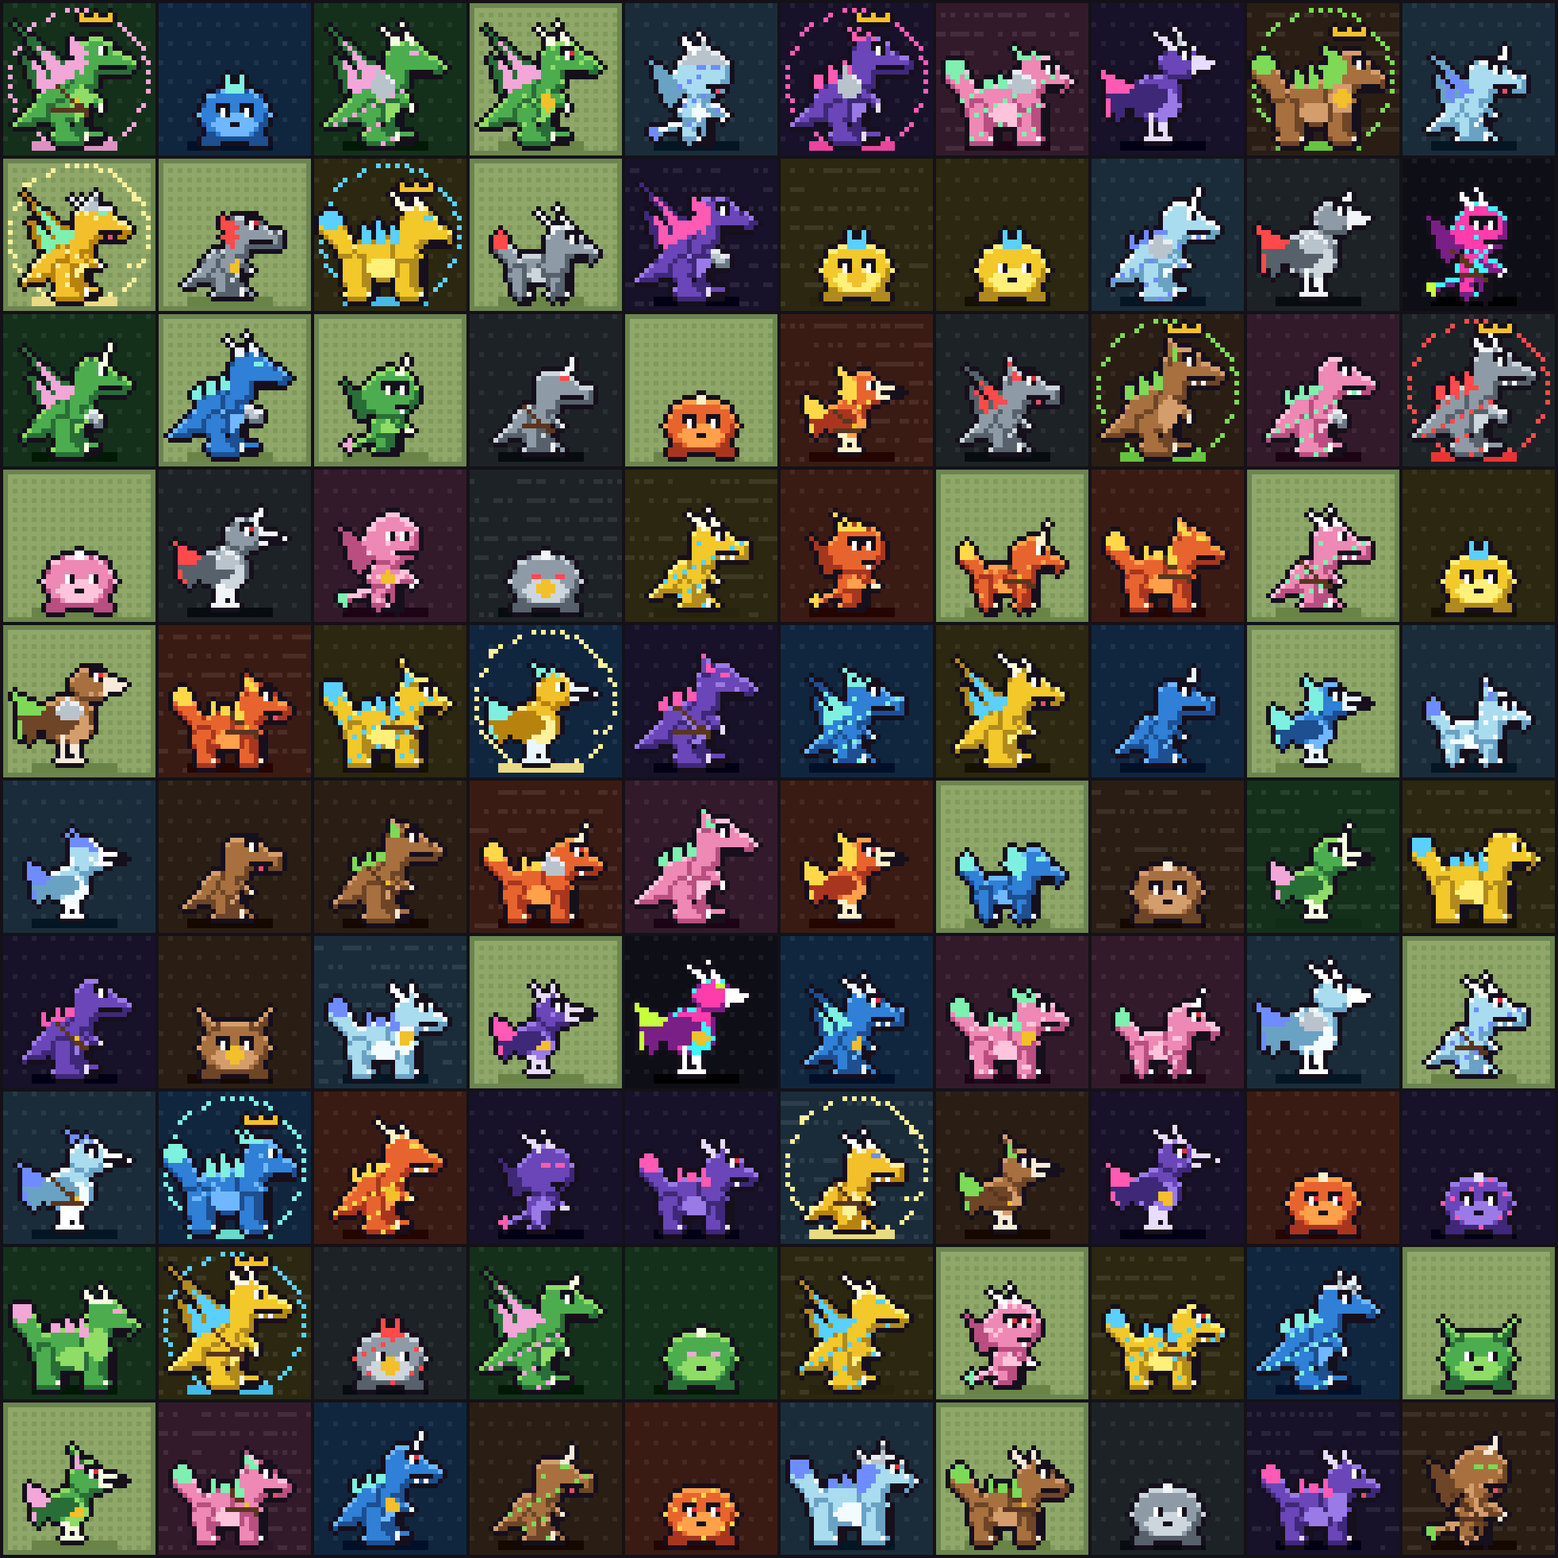
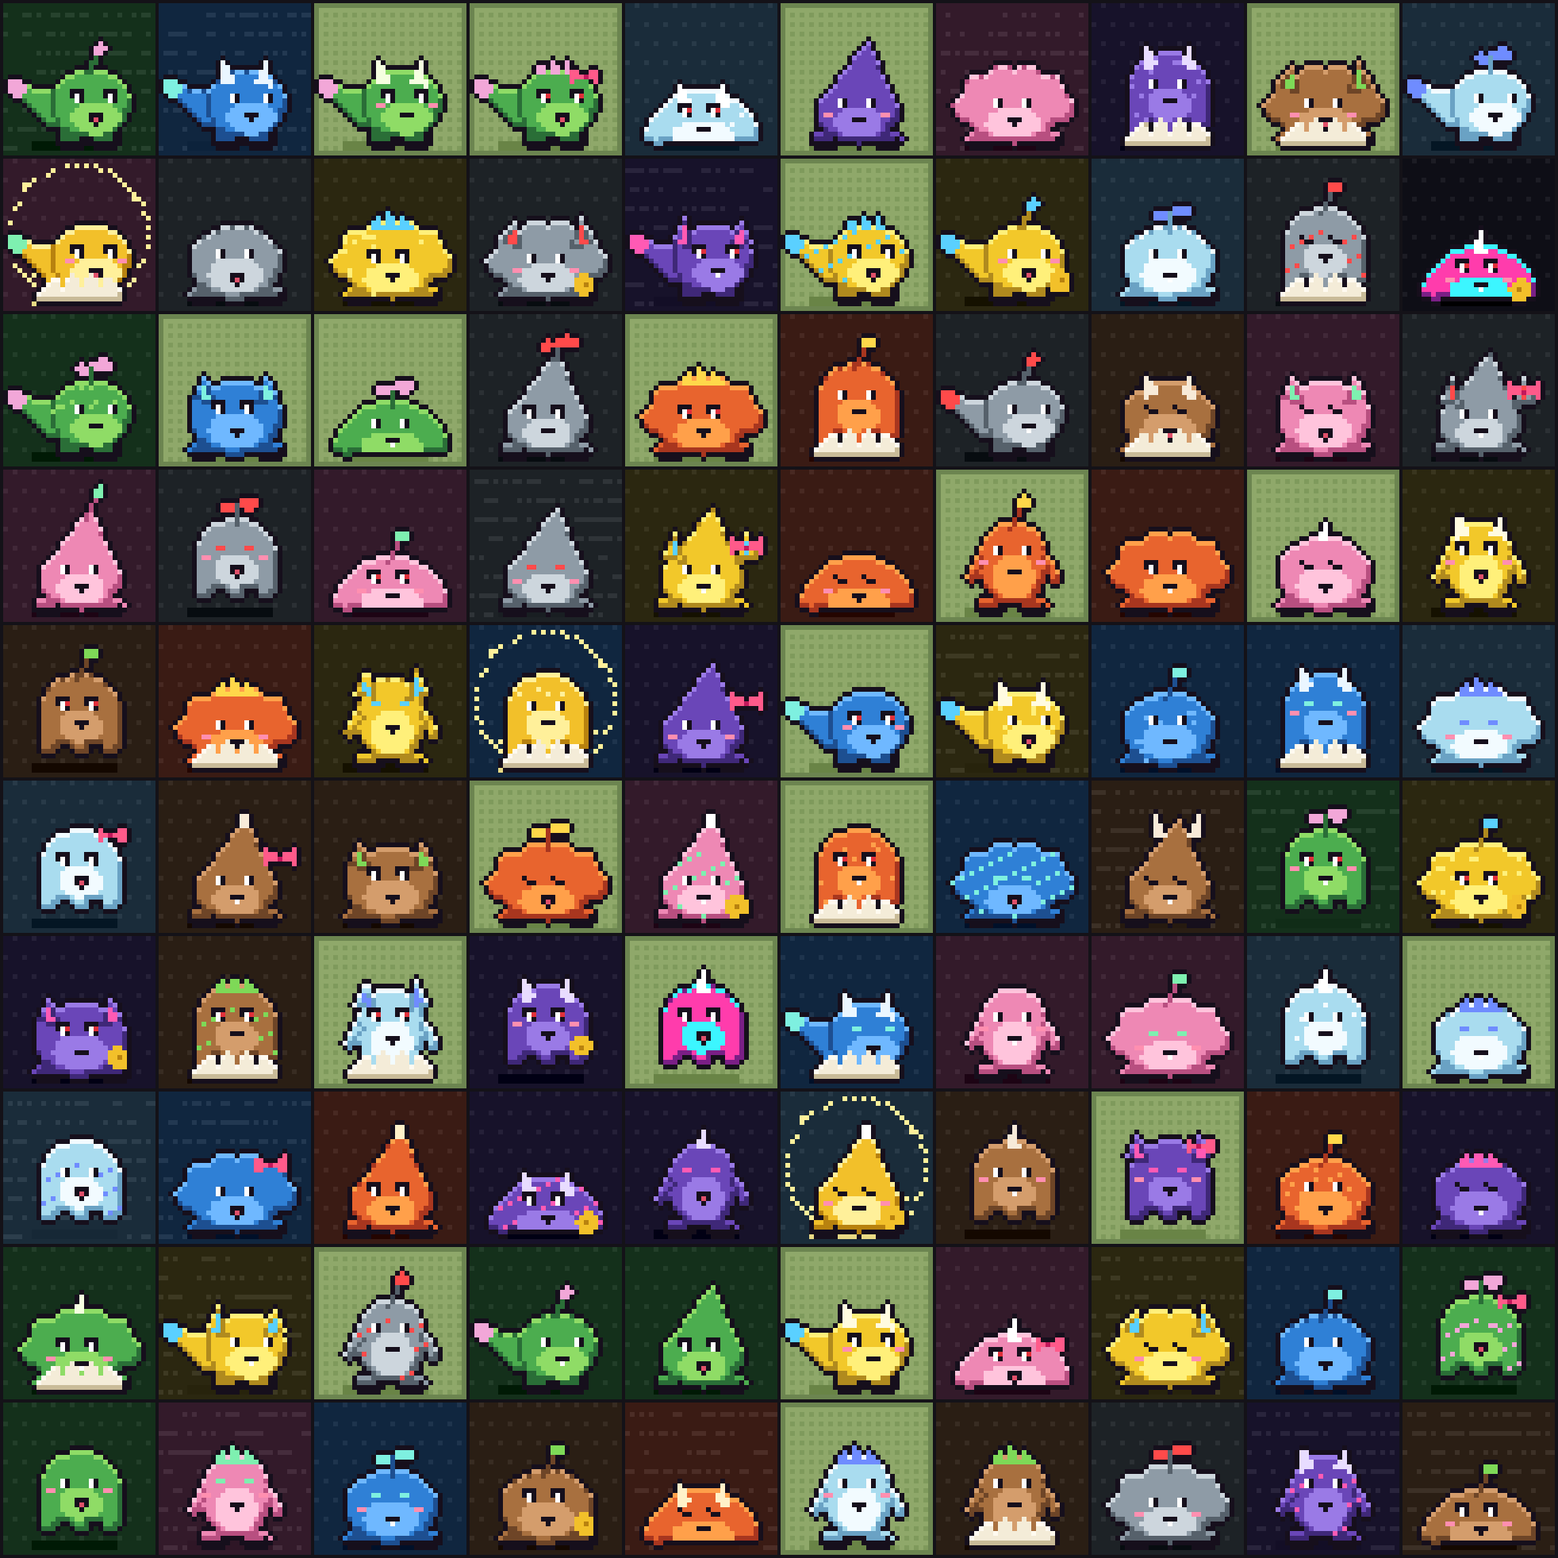
Bytelings: the first hundred are babies (Blob, Drop, Puff, Bean, Tadpole, Wisp, Mound)
The grown bodies stay, for the later stages (--stage). Every 30 days after
the pad opens, the next stage can be reached by evolving, which is to come.

(cherry picked from commit c3fea8a796bb61e6b136ac6d87f3f3d0b5d4ed1c)

diff --git a/examples/bytelings/generate.py b/examples/bytelings/generate.py
@@ -1,5 +1,5 @@
 #!/usr/bin/env python3
-"""Bytelings: 100 pixel monsters, the arcade's own DigiByte ordinals collection.
+"""Bytelings: pixel monsters, the arcade's own DigiByte ordinals collection.
 
     python3 examples/bytelings/generate.py            # writes examples/bytelings/build/
     python3 examples/bytelings/generate.py --sheet preview.png --scale 6
@@ -9,13 +9,18 @@ from a seed, never by hand, so anyone can run this and get the same 100 pictures
 chain. They are digital monsters in the virtual-pet tradition: a baby blob, then a rookie, up to armoured giants, seen
 side on with claws, tails, spikes, straps and armour. Our own monsters: no other franchise's names, characters or looks.
 
+The first hundred are all babies, the Bit stage (2026-11-07, SadFrog: "100 babys that can eventually become bigger"):
+blobs, drops, puffs, beans, tadpoles, wisps and mounds. Every 30 days after the pad opens, the next stage can be
+reached by evolving, which is to come: a Bytelings site on the arcade's backbone where an owner signs to burn their
+babies for a grown one. The grown bodies below are drawn already, for those later hundreds (`--stage`).
+
 What comes out is a HashLips build (`build/images/<n>.png`, `build/json/<n>.json` and `build/json/_metadata.json`),
 the layout the Creator tab already inscribes a whole collection from (arcade/collections.py). A picture is 32 by 32
 pixels in an indexed palette, a few hundred bytes, so the fee to inscribe it stays small; pages show it scaled up with
 `image-rendering: pixelated`.
 
 Every Byteling has a stage (how far it has grown: Bit, Byte, Kilo, Mega, Giga), an element (its colours), a body
-(Dino, Beast, Dragon, Avian, Imp; every Bit is a Baby), its head, eyes, mouth, marking, gear and background. No two
+(a Bit's is one of the baby forms; a grown one is a Dino, Beast, Dragon, Avian or Imp), its head, eyes, mouth, marking, gear and background. No two
 have the same traits. Pillow is the only thing it needs.
 """
 
@@ -33,15 +38,16 @@ NAME = "Bytelings"
 COUNT = 100
 SIZE = 32
 SEED = "bytelings/2026-11-07"
-DESCRIPTION = ("A Byteling: one of 100 pixel monsters, the Arcade's own collection on DigiByte, minted with "
-               "DigiDollar test to thank the people who tried it.")
+DESCRIPTION = ("A Byteling: a baby pixel monster, one of the first 100, the Arcade's own collection on DigiByte, "
+               "minted with DigiDollar test to thank the people who tried it. Every 30 days it can grow a stage.")
 HERE = Path(__file__).resolve().parent
 GROUND = 29
 
-#: How many of each stage there are: most are young.
-STAGES = [("Bit", 16), ("Byte", 30), ("Kilo", 28), ("Mega", 18), ("Giga", 8)]
+#: The stages, youngest first. The first hundred are all Bits (`--stage` draws a hundred of another, for later).
+STAGE_NAMES = ("Bit", "Byte", "Kilo", "Mega", "Giga")
+STAGES = [("Bit", 100)]
 #: How big each stage is drawn, and how much bigger its head is than a grown one's (the young are all head).
-SCALE = {"Byte": (.74, 1.25), "Kilo": (.86, 1.1), "Mega": (.95, 1.0), "Giga": (1.0, 1.0)}
+SCALE = {"Bit": (1.3, 1.0), "Byte": (.74, 1.25), "Kilo": (.86, 1.1), "Mega": (.95, 1.0), "Giga": (1.0, 1.0)}
 
 #: Each element's colours: background, body, body light, body dark, accent, horn and claw.
 ELEMENTS = {
@@ -74,6 +80,13 @@ MOUTHS = ["Fangs", "Fangs", "Grin", "Closed"]
 MARKINGS = ["None", "Stripes", "Stripes", "Tribal", "Belly", "Spots"]
 GEAR = ["None", "None", "Belts", "Belts", "Gauntlet", "Helmet", "Armor", "DigiDollar coin"]
 BACKGROUNDS = ["Element", "Element", "Element", "LCD", "Data"]
+#: What a baby (a Bit) can be instead.
+BABY_FORMS = ["Blob", "Drop", "Puff", "Bean", "Tadpole", "Wisp", "Mound"]
+BABY_HEADS = ["Horns", "Unihorn", "Ears", "Crest", "Sprout", "Antenna", "Plain", "Plain"]
+BABY_EYES = ["Round", "Round", "Round", "Sharp", "Glow", "Fierce", "Sleepy"]
+BABY_MOUTHS = ["Fangs", "Grin", "Grin", "Closed", "Open"]
+BABY_MARKINGS = ["None", "None", "Spots", "Stripes", "Tribal", "Blush", "Blush"]
+BABY_GEAR = ["None", "None", "None", "None", "Eggshell", "Bow", "DigiDollar coin"]
 
 
 def hexrgb(h: str) -> tuple[int, int, int]:
@@ -228,15 +241,81 @@ def imp(c: Canvas, t: dict) -> dict:
             "arm": (17.5, 19.5, 21, 22.5), "ear": (12.5, 8.5), "two_eyes": True}
 
 
-def baby(c: Canvas, t: dict) -> dict:
-    c.new(True); c.ellipse(16, 23.5, 7.5, 6, "body")
+# The babies, a Bit's forms: small, round and mostly face, looking at you. Each says where its eyes (the middle of
+# the pair), mouth and top are, its `ear` (the left one; the right is its mirror about the top) and `side`, where it
+# holds a coin.
+
+def _feet(c: Canvas, y: float = 28.6, x0: float = 10.5, x1: float = 21.5):
+    c.capsule(x0 - 1, y, 1.2, x0 + 1, y, 1.2, "far"); c.capsule(x1 - 1, y, 1.2, x1 + 1, y, 1.2, "far")
+
+
+def _baby(eye, mouth, top, ear, side, **more) -> dict:
+    return {"eye": eye, "mouth": mouth, "top": top, "back": [], "chest": None, "arm": None, "ear": ear,
+            "side": side, "two_eyes": True, "baby": True, **more}
+
+
+def blob(c: Canvas, t: dict) -> dict:
+    c.new(); _feet(c)
+    c.new(); c.ellipse(16, 23.5, 7.5, 6, "body")
     c.ellipse(16, 25.5, 4.5, 3, "belly", only=("body",))
-    c.capsule(10, 28.6, 1.2, 12, 28.6, 1.2, "dark"); c.capsule(20, 28.6, 1.2, 22, 28.6, 1.2, "dark")
-    return {"eye": (16, 22), "mouth": (15, 25.3, 17.5), "top": (16, 17.6), "back": [], "chest": None, "arm": None,
-            "ear": (11.5, 19), "two_eyes": True, "baby": True}
+    return _baby((16, 22), (15, 25.3, 17.5), (16, 17.6), (11.5, 19), (22, 25.5))
 
 
-BODY_DRAW = {"Dino": dino, "Beast": beast, "Dragon": dragon, "Avian": avian, "Imp": imp, "Baby": baby}
+def drop(c: Canvas, t: dict) -> dict:
+    c.new(); _feet(c, x0=11, x1=21)
+    c.new(); c.ellipse(16, 24.2, 6.6, 5.2, "body"); c.tri([(9.6, 23.2), (17.5, 12.5), (22.4, 23.2)], "body")
+    c.ellipse(16, 26, 4, 2.6, "belly", only=("body",))
+    return _baby((16, 22.5), (15, 25.6, 17.5), (17.3, 13.6), (12, 19.5), (21.5, 26))
+
+
+def puff(c: Canvas, t: dict) -> dict:
+    c.new(); _feet(c)
+    c.new(); c.ellipse(16, 24, 7.6, 5.4, "body")
+    for x, y in ((10.5, 20.5), (14, 19), (18, 19), (21.5, 20.5), (8.7, 23.5), (23.3, 23.5)):
+        c.ellipse(x, y, 2.6, 2.4, "body")
+    c.ellipse(16, 26, 4.5, 2.6, "belly", only=("body",))
+    return _baby((16, 22.6), (15, 25.6, 17.5), (16, 16.8), (11, 19), (22, 26))
+
+
+def bean(c: Canvas, t: dict) -> dict:
+    c.new(); _feet(c, x0=12.5, x1=19.5)
+    c.new(); c.ellipse(16, 21.8, 5.6, 6.8, "body")
+    c.ellipse(16, 24, 3.4, 3.6, "belly", only=("body",))
+    c.new(); c.capsule(10.6, 21.5, 1, 9.3, 24, .9, "body"); c.capsule(21.4, 21.5, 1, 22.7, 24, .9, "body")
+    return _baby((16, 19.5), (15, 23, 17.5), (16, 15.2), (12.4, 16.5), (22.5, 25))
+
+
+def tadpole(c: Canvas, t: dict) -> dict:
+    c.new(); c.capsule(12, 24, 3, 5.5, 20.5, .9, "body"); c.ellipse(5.6, 20.4, 1.5, 1.5, "accent")
+    c.new(); c.capsule(13.5, 28.4, 1.2, 15.5, 28.4, 1.2, "far"); c.capsule(19, 28.4, 1.2, 21, 28.4, 1.2, "far")
+    c.new(); c.ellipse(17.5, 23, 6.6, 5.6, "body")
+    c.ellipse(18.5, 25.3, 4, 2.6, "belly", only=("body",))
+    return _baby((18.5, 21.6), (17.5, 24.8, 20), (17.5, 17.4), (13.5, 19), (23.5, 25.5))
+
+
+def wisp(c: Canvas, t: dict) -> dict:
+    c.new(); c.ellipse(16, 20.5, 6.6, 6, "body")
+    lo, hi = c.at(9.4, 20.5), c.at(22.6, 26)
+    c.shape(lambda x, y: lo[0] <= x <= hi[0] and lo[1] <= y <= hi[1], "body")
+    for x in (11, 16, 21):
+        c.ellipse(x, 26, 1.7, 1.5, "body")
+    c.ellipse(16, 23, 3.6, 2.6, "belly", only=("body",))
+    return _baby((16, 19), (15, 22.6, 17.5), (16, 14.6), (11.5, 16), (21.5, 23.5))
+
+
+def mound(c: Canvas, t: dict) -> dict:
+    c.new()
+    cx, cy = c.at(16, 29.2)
+    rx, ry = c.r(9.4), c.r(8.6)
+    c.shape(lambda x, y: ((x - cx) / rx) ** 2 + ((y - cy) / ry) ** 2 <= 1 and y < cy, "body")
+    for x, y in ((9, 26.5), (23.5, 25.5)):
+        c.capsule(x, y, .8, x, y + 2.2, .9, "body")
+    c.ellipse(16, 28, 5, 2.4, "belly", only=("body",))
+    return _baby((16, 24), (15, 26.8, 17.5), (16, 20.8), (10.8, 23), (22.5, 27))
+
+
+BABIES = {"Blob": blob, "Drop": drop, "Puff": puff, "Bean": bean, "Tadpole": tadpole, "Wisp": wisp, "Mound": mound}
+BODY_DRAW = {"Dino": dino, "Beast": beast, "Dragon": dragon, "Avian": avian, "Imp": imp, **BABIES}
 
 
 def draw(t: dict) -> Image.Image:
@@ -254,10 +333,10 @@ def compose(t: dict, k: float, hk: float) -> Canvas:
     stage = t["Stage"]
     c = Canvas(k, hk)
     # the head is scaled about its own middle, which each body says through its first draw
-    c.head = {"Dino": (20, 11), "Dragon": (20, 11), "Beast": (22, 14), "Avian": (18.5, 11.5), "Imp": (16.5, 12.5),
-              "Baby": (16, 23)}[t["Body"]]
+    c.head = {"Dino": (20, 11), "Dragon": (20, 11), "Beast": (22, 14), "Avian": (18.5, 11.5),
+              "Imp": (16.5, 12.5)}.get(t["Body"], (16, 23))
     f = BODY_DRAW[t["Body"]](c, t)
-    big = {"Bit": 0, "Byte": 1, "Kilo": 2, "Mega": 3, "Giga": 4}[stage]
+    big = STAGE_NAMES.index(stage)
 
     # back spikes along the spine, on the grown
     if f["back"] and (big >= 2 or t["Head"] == "Crest"):
@@ -270,13 +349,28 @@ def compose(t: dict, k: float, hk: float) -> Canvas:
     tx, ty = f["top"]
     h = t["Head"]
     if f.get("baby"):
-        if h in ("Horns", "Unihorn"):
-            c.tri([(15, ty + 1), (16, ty - 3), (17, ty + 1)], "horn")
+        ex, ey = f["ear"]
+        if h == "Horns":
+            for s in (-1, 1):
+                c.tri([(tx + s * 1.5, ty + 2.2), (tx + s * 3.6, ty - 1.8), (tx + s * 4.2, ty + 2.8)], "horn")
+        elif h == "Unihorn":
+            c.tri([(tx - 1.1, ty + 1), (tx, ty - 3.2), (tx + 1.1, ty + 1)], "horn")
         elif h == "Ears":
-            c.tri([(10, 21), (8.5, 15.5), (13.5, 19)], "body"); c.tri([(22, 21), (23.5, 15.5), (18.5, 19)], "body")
-        elif h in ("Crest", "Frill"):
-            c.tri([(13.5, ty + 1), (14.5, ty - 2.5), (16, ty + 1)], "accent")
-            c.tri([(16, ty + 1), (17.5, ty - 2.5), (18.5, ty + 1)], "accent")
+            for x0 in (ex, 2 * tx - ex):
+                s = 1 if x0 > tx else -1
+                c.tri([(x0 - s * 1.5, ey + 2.5), (x0 + s * .5, ey - 3), (x0 + s * 2.5, ey + 1.5)], "body")
+                c.tri([(x0 - s * .3, ey + 1.5), (x0 + s * .5, ey - 1.6), (x0 + s * 1.4, ey + 1.2)], "accent",
+                      only=("body",))
+        elif h == "Crest":
+            for d in (-2.2, 0, 2.2):
+                c.tri([(tx + d - 1.2, ty + 1.2), (tx + d - .4, ty - 2.2 + abs(d) * .4), (tx + d + 1.2, ty + 1.2)],
+                      "accent")
+        elif h == "Sprout":
+            c.capsule(tx, ty + .8, .45, tx + .4, ty - 2, .45, "dark")
+            c.ellipse(tx + 2, ty - 2.4, 1.9, 1.1, "accent"); c.ellipse(tx - 1.3, ty - 1.8, 1.3, .9, "accent")
+        elif h == "Antenna":
+            c.capsule(tx - .4, ty + .8, .4, tx + 1.6, ty - 3, .4, "dark")
+            c.ellipse(tx + 1.7, ty - 3.3, 1, 1, "glow")
     elif h == "Horns":
         c.tri([(tx - 2.5, ty + 1.5), (tx - 6, ty - 3.5), (tx - .5, ty + .5)], "horn")
         c.tri([(tx + .5, ty + 1), (tx - 1.5, ty - 4.5), (tx + 2.2, ty + .8)], "horn")
@@ -319,6 +413,9 @@ def compose(t: dict, k: float, hk: float) -> Canvas:
         if e == "Glow":
             c.put(x, y, "glow"); c.put(x + 1, y, "glow")
             continue
+        if e == "Sleepy":
+            c.put(x, y + 1, "ink"); c.put(x + 1, y + 1, "ink"); c.put(x - 1, y, "ink")
+            continue
         c.put(x, y, "eye"); c.put(x + 1, y, "eye"); c.put(x, y + 1, "eye"); c.put(x + 1, y + 1, "pupil")
         c.put(x + 1, y, "iris" if e == "Fierce" else "pupil")
         if e in ("Sharp", "Fierce"):
@@ -342,6 +439,12 @@ def compose(t: dict, k: float, hk: float) -> Canvas:
             for x in range(ax + 1, bx - 1):
                 c.put(x, ay + 1, "ink", only=("body", "belly"))
             c.put(ax + 2, ay + 1, "tongue", only=("ink",))
+        elif m == "Open":
+            mid = (ax + bx) // 2
+            for x in range(ax, bx):
+                c.put(x, ay, "body" if abs(x - mid) > 1 else "ink", only=("ink",))
+            c.put(mid - 1, ay + 1, "ink", only=("body", "belly")); c.put(mid, ay + 1, "tongue", only=("body", "belly"))
+            c.put(mid + 1, ay + 1, "ink", only=("body", "belly")); c.put(mid, ay + 2, "ink", only=("body", "belly"))
 
     # markings, on the body colour only
     mk = t["Marking"]
@@ -360,6 +463,11 @@ def compose(t: dict, k: float, hk: float) -> Canvas:
     if mk == "Belly" and f["chest"]:
         cx, cy = f["chest"]
         c.ellipse(cx, cy + 1, 2.6, 3.4, "light", only=("body", "belly"))
+    if mk == "Blush":
+        ex, ey = f["eye"]
+        for x in (ex - 5, ex + 4):
+            x, y = c.at(x, ey + 2)
+            c.put(int(x), int(y), "blush", only=("body", "belly")); c.put(int(x) + 1, int(y), "blush", only=("body", "belly"))
 
     # gear on the body
     c.new()
@@ -377,8 +485,23 @@ def compose(t: dict, k: float, hk: float) -> Canvas:
         c.ellipse(cx - 2, cy - 2.5, 3, 2.4, "metal")
         c.tri([(cx - 4, cy - 3.5), (cx - 3, cy - 7), (cx - 1.5, cy - 4)], "metal")
     elif g == "DigiDollar coin":
-        cx, cy = f["chest"] or (16, 24)
+        cx, cy = f["chest"] or f["side"]
         c.ellipse(cx, cy + 1, 1.8, 1.8, "coin")
+        x, y = c.at(cx, cy + 1)
+        c.put(int(x), int(y), "coinmark")
+    elif g == "Eggshell":
+        # the bottom of the egg it came out of, jagged along its top
+        _, y0 = c.at(0, 25.4)
+        lo, hi = c.at(9, 0)[0], c.at(23, 0)[0]
+        c.shape(lambda x, y: lo <= x <= hi and y >= y0 + abs(int(x) % 4 - 2) * 1.1 and y < GROUND + 1
+                and ((x - (lo + hi) / 2) / ((hi - lo) / 2)) ** 2 + ((y - GROUND - .6) / (GROUND + .6 - y0 + .8)) ** 2 <= 1,
+                "shell")
+    elif g == "Bow":
+        ex, ey = f["ear"]
+        bx, by = 2 * f["top"][0] - ex + .5, ey - .5
+        c.tri([(bx, by), (bx - 2.4, by - 1.5), (bx - 2.4, by + 1.5)], "bow")
+        c.tri([(bx, by), (bx + 2.4, by - 1.5), (bx + 2.4, by + 1.5)], "bow")
+        c.dot(bx, by, "bowknot")
 
     # the biggest carry a crown of light
     if stage == "Giga":
@@ -397,7 +520,8 @@ def paint(c: Canvas, t: dict) -> Image.Image:
     colours = {"body": base, "belly": light, "light": light, "dark": dark, "far": dark, "accent": accent,
                "horn": horn, "claw": horn, "eye": EYE_WHITE, "pupil": INK, "ink": INK, "iris": "#e0303a",
                "glow": accent, "shine": EYE_WHITE, "fang": "#ffffff", "tongue": "#e0506a", "metal": METAL[0],
-               "strap": LEATHER, "buckle": GOLD[0], "coin": GOLD[0]}
+               "strap": LEATHER, "buckle": GOLD[0], "coin": GOLD[0], "coinmark": GOLD[2], "blush": "#ff8fb0",
+               "shell": "#f4ecd8", "bow": "#ff5a8a", "bowknot": "#c2185b"}
 
     back = t["Background"]
     img = Image.new("RGB", (SIZE, SIZE), hexrgb(LCD[0] if back == "LCD" else bg))
@@ -437,7 +561,7 @@ def paint(c: Canvas, t: dict) -> Image.Image:
             if ((x + .5 - 15) / 10) ** 2 + ((y + .5 - 30) / 1.5) ** 2 <= 1:
                 pix[x, y] = shadow
 
-    shaded = ("body", "far", "metal")
+    shaded = ("body", "far", "metal", "shell")
     for y in range(SIZE):
         for x in range(SIZE):
             part = c.get(x, y)
@@ -447,7 +571,8 @@ def paint(c: Canvas, t: dict) -> Image.Image:
                 continue
             colour = colours[part]
             if part in shaded:
-                lit, shade = (light, dark) if part == "body" else (METAL[1], METAL[2]) if part == "metal" else (base, INK)
+                lit, shade = (light, dark) if part == "body" else (METAL[1], METAL[2]) if part == "metal" else \
+                    ("#fffaf0", "#c9bb98") if part == "shell" else (base, INK)
                 above = c.get(x, y - 1)
                 if above is None or (c.grp[y - 1][x] < c.grp[y][x] and above in shaded):
                     colour = lit
@@ -471,7 +596,11 @@ def traits(n: int, stage: str, element: str, shiny: bool) -> dict:
     """The traits of Byteling `n`, from its seed, at the stage and element `build` handed it. Rerolled with a counter
     until unique (see build)."""
     rnd = random.Random(hashlib.sha256(f"{SEED}/{n}".encode()).digest())
-    body = "Baby" if stage == "Bit" else rnd.choice(BODIES)
+    if stage == "Bit":
+        return {"Stage": stage, "Element": element, "Body": rnd.choice(BABY_FORMS), "Head": rnd.choice(BABY_HEADS),
+                "Eyes": rnd.choice(BABY_EYES), "Mouth": rnd.choice(BABY_MOUTHS), "Marking": rnd.choice(BABY_MARKINGS),
+                "Gear": rnd.choice(BABY_GEAR), "Background": rnd.choice(BACKGROUNDS), "Shiny": "Yes" if shiny else "No"}
+    body = rnd.choice(BODIES)
     t = {"Stage": stage,
          "Element": element,
          "Body": body,
@@ -479,7 +608,7 @@ def traits(n: int, stage: str, element: str, shiny: bool) -> dict:
          "Eyes": rnd.choice(EYES),
          "Mouth": rnd.choice(MOUTHS),
          "Marking": rnd.choice(MARKINGS),
-         "Gear": rnd.choice(GEAR if stage not in ("Bit", "Byte") else GEAR[:4] + GEAR[-1:]),
+         "Gear": rnd.choice(GEAR if stage != "Byte" else GEAR[:4] + GEAR[-1:]),
          "Background": rnd.choice(BACKGROUNDS),
          "Shiny": "Yes" if shiny else "No"}
     if body == "Avian":
@@ -488,16 +617,16 @@ def traits(n: int, stage: str, element: str, shiny: bool) -> dict:
             t["Gear"] = "Armor"
     if body == "Beast" and t["Gear"] == "Gauntlet":
         t["Gear"] = "Belts"
-    if body == "Baby" and t["Gear"] in ("Belts", "Helmet", "Armor", "Gauntlet"):
-        t["Gear"] = "None"
     return t
 
 
-def build() -> list[dict]:
+def build(stages=None) -> list[dict]:
     """All 100: stages, elements and the gold ones handed out in shuffled orders, so each comes up exactly as often as
     it says, and a number says nothing about how rare one is."""
-    rnd = random.Random(SEED)
-    order = [s for s, k in STAGES for _ in range(k)]
+    stages = stages or STAGES
+    seed = SEED if stages == STAGES else f"{SEED}/{stages}"
+    rnd = random.Random(seed)
+    order = [s for s, k in stages for _ in range(k)]
     rest = [e for e in ELEMENTS if e not in ELEMENT_COUNTS]
     left = COUNT - sum(ELEMENT_COUNTS.values())
     elements = [e for e, k in ELEMENT_COUNTS.items() for _ in range(k)] + [
@@ -536,11 +665,12 @@ def main():
     ap.add_argument("--out", type=Path, default=HERE / "build")
     ap.add_argument("--sheet", type=Path, help="also write a preview sheet of all 100 here")
     ap.add_argument("--scale", type=int, default=6)
+    ap.add_argument("--stage", choices=STAGE_NAMES, help="draw a hundred of this stage instead (the grown, for later)")
     args = ap.parse_args()
     (args.out / "images").mkdir(parents=True, exist_ok=True)
     (args.out / "json").mkdir(parents=True, exist_ok=True)
     every, pictures = [], []
-    for n, t in enumerate(build(), 1):
+    for n, t in enumerate(build([(args.stage, COUNT)] if args.stage else None), 1):
         img = draw(t)
         img.save(args.out / "images" / f"{n}.png", optimize=True)
         meta = metadata(n, t)
